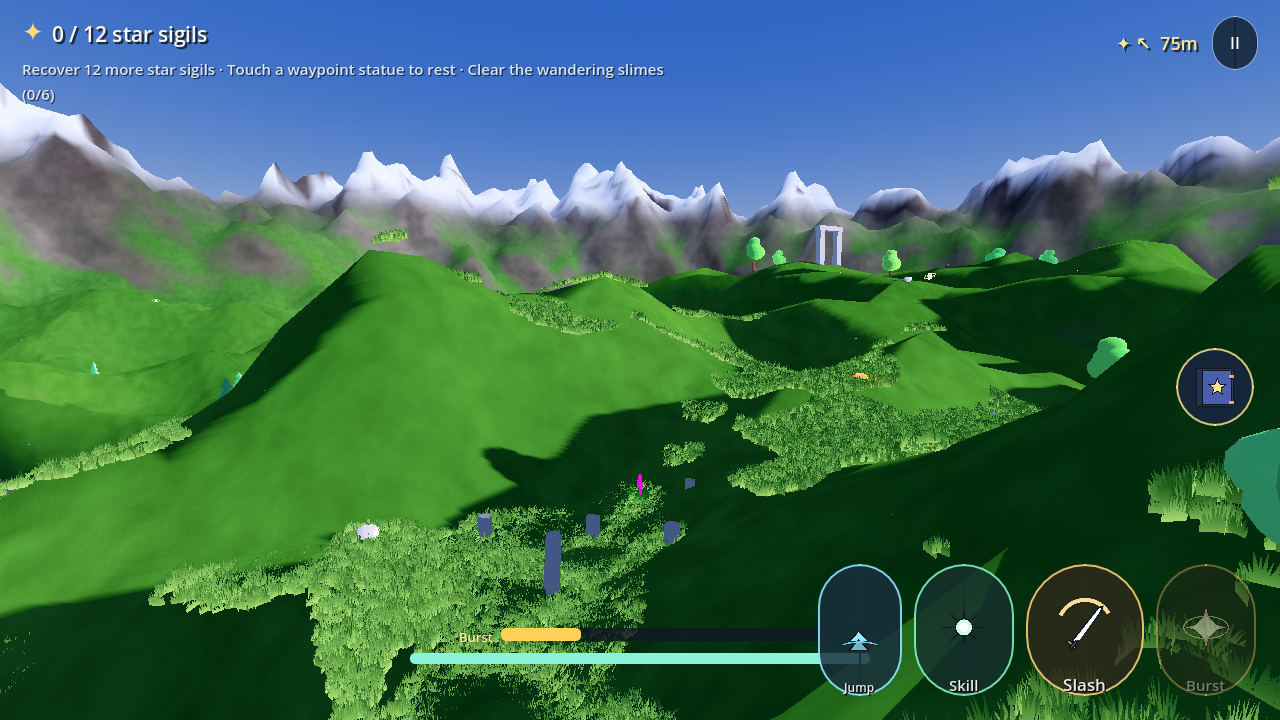
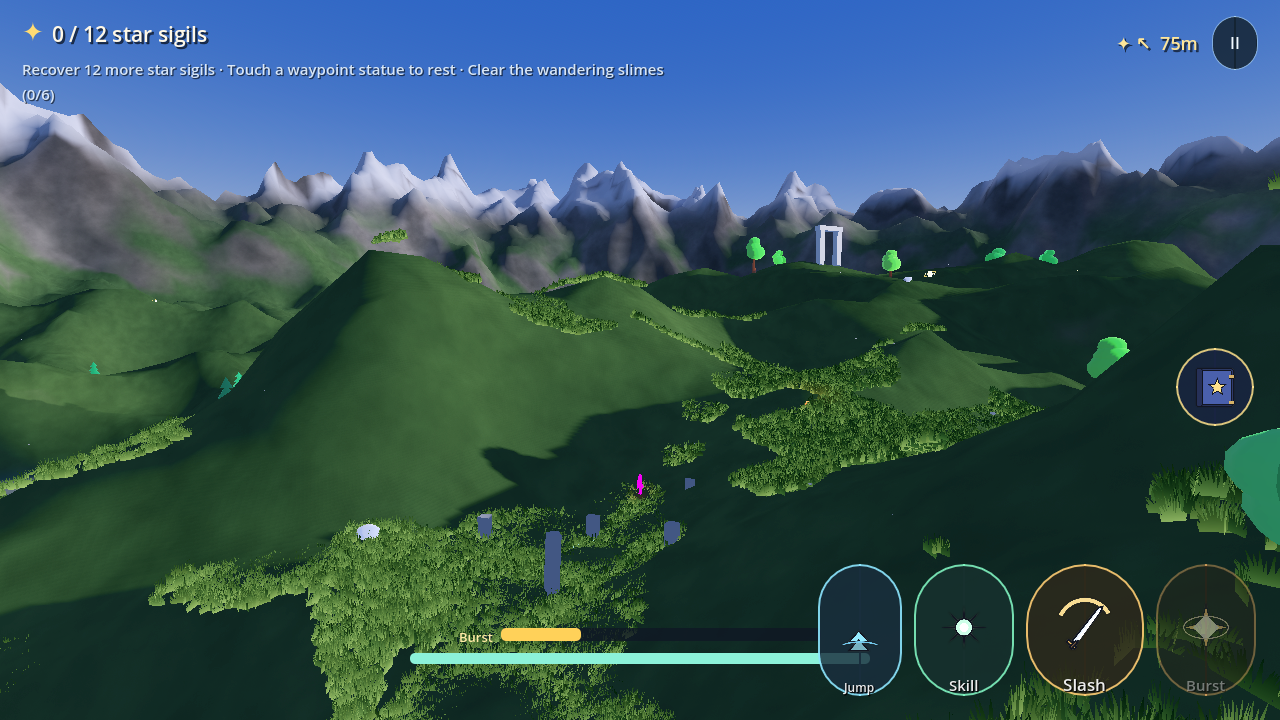
docs: refresh the published renders, including the first front-on character shot
docs/render_player.png was a view of her back in every previous commit, because the
probe's portrait camera sat at world +Z alongside the gameplay camera. It is now
shot from the front, and shows the black-and-red design the brief asked for.

README also caught up with the grass counts (the tier constants have been
9,000/3,600/1,100 since the density pass; the table still claimed 2,600/1,300/520)
and no longer advertises a specular band the shader no longer has.

diff --git a/README.md b/README.md
@@ -25,7 +25,7 @@ produces an installable APK on every push.
 |---|---|
 | **Renderer** | OpenGL ES 3.0 (Compatibility) — runs on every Android device since 2013, including PowerVR GPUs like the Helio P95 where the Vulkan path black-screens |
 | **Anime terrain** | 900 m procedural valley, 144² heightfield, custom `terrain_anime` shader: painterly banded meadow, slope-aware rock, wet shoreline and snow caps |
-| **Cel shading** | `anime_toon.gdshader` — world-space two-band ramp, cool tinted shadows, warm rim light, anime specular band + inverted-hull outline pass |
+| **Cel shading** | `anime_toon.gdshader` — world-space two-band ramp, cool tinted shadows, a small cool rim + inverted-hull outline pass. No specular lobe: on near-black cloth it only ever painted grey patches, so the ramp and the outline carry the form |
 | **Party of three** | Sora (Anemo, sword), Ember (Pyro, catalyst), Volt (Electro, bow). Switch instantly with **T** or the portrait row |
 | **Traversal** | Sprint with stamina, double jump, **gliding** with wind wings, plunge attack from a dive |
 | **Combat** | 3-hit melee combo, elemental skill (E) with cooldown, elemental burst (Q) that spends energy, damage numbers, hit flashes, shockwaves |
@@ -34,7 +34,8 @@ produces an installable APK on every push.
 | **World dressing** | Lake with stylized wave shader, wind arches, glowing crystal formations, campfires, rolling clouds, 3 700+ instanced trees/rocks/flowers and a 2 600-blade swooshing grass carpet |
 | **Day / night** | Sun angle, colour and ambient light drift over time; campfire and crystal lights carry the night |
 | **Environment (rendered)** | ![wide](docs/render_wide.png) ![gameplay](docs/render_world.png) |
-| **Grass** | A streaming meadow over the whole valley: 26 m chunks rebuilt around the player out to 130 m, density falling off with distance (2,600 / 1,300 / 520 blades per chunk), ~80,000 instances at full quality. Wind-waved, per-instance colour variation, root-to-tip gradient and faked subsurface scattering |
+| **Character (rendered, front)** | ![front](docs/render_player.png) |
+| **Grass** | A streaming meadow over the whole valley: 26 m chunks rebuilt around the player out to 130 m, density falling off with distance (9,000 / 3,600 / 1,100 blades per chunk), ~80,000 instances at full quality. Wind-waved, per-instance colour variation, root-to-tip gradient and faked subsurface scattering |
 | **Mobile UI** | Touch joystick + right-side camera drag + on-screen action buttons, plus a **Quality** toggle (Balanced / Performance / High) |
 
 ### Controls
